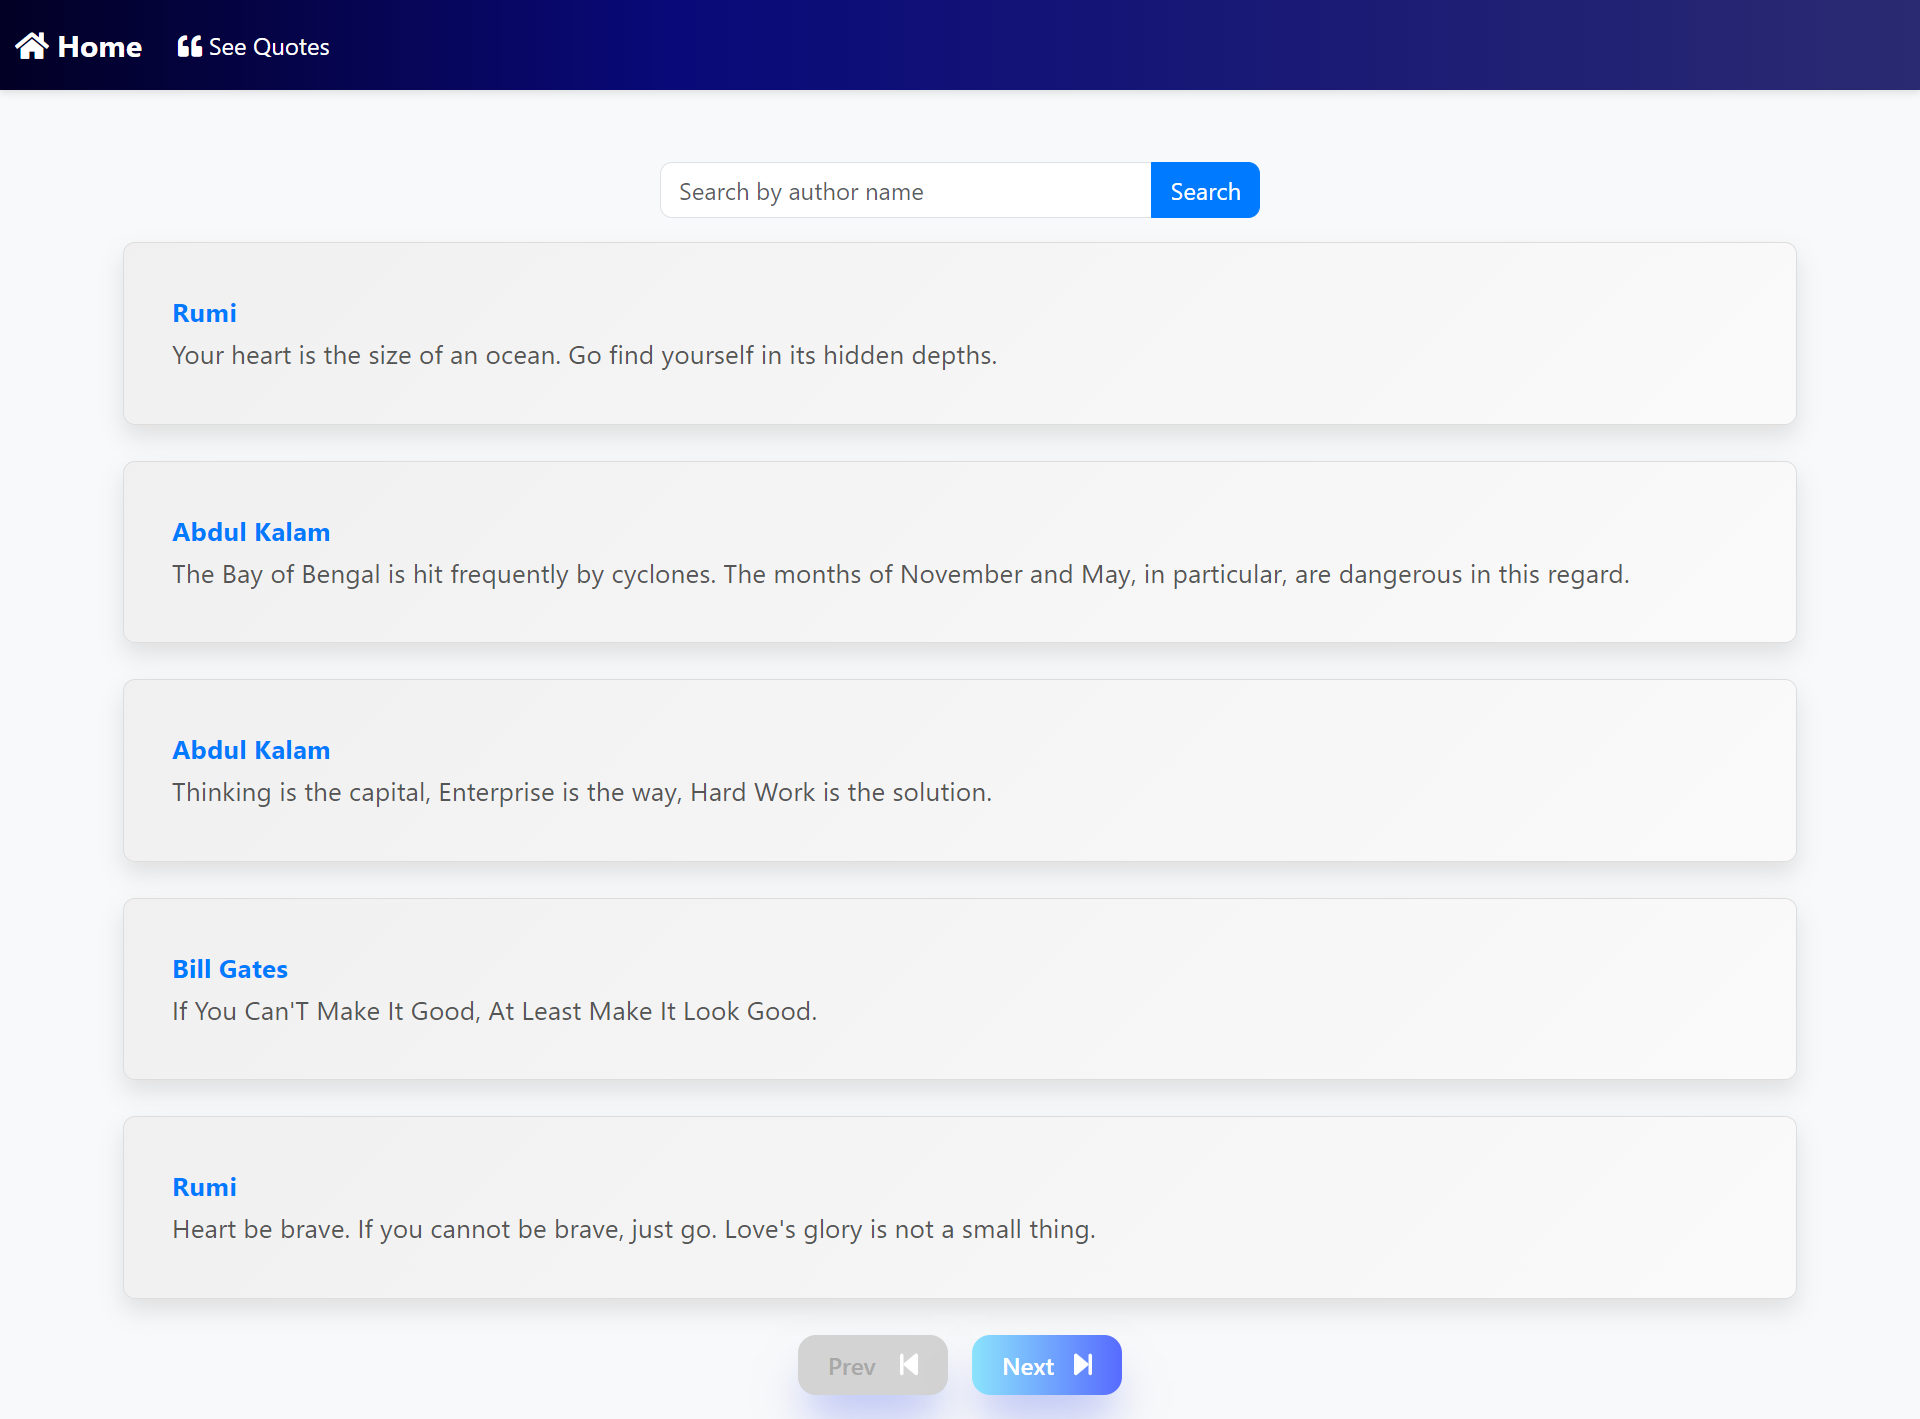
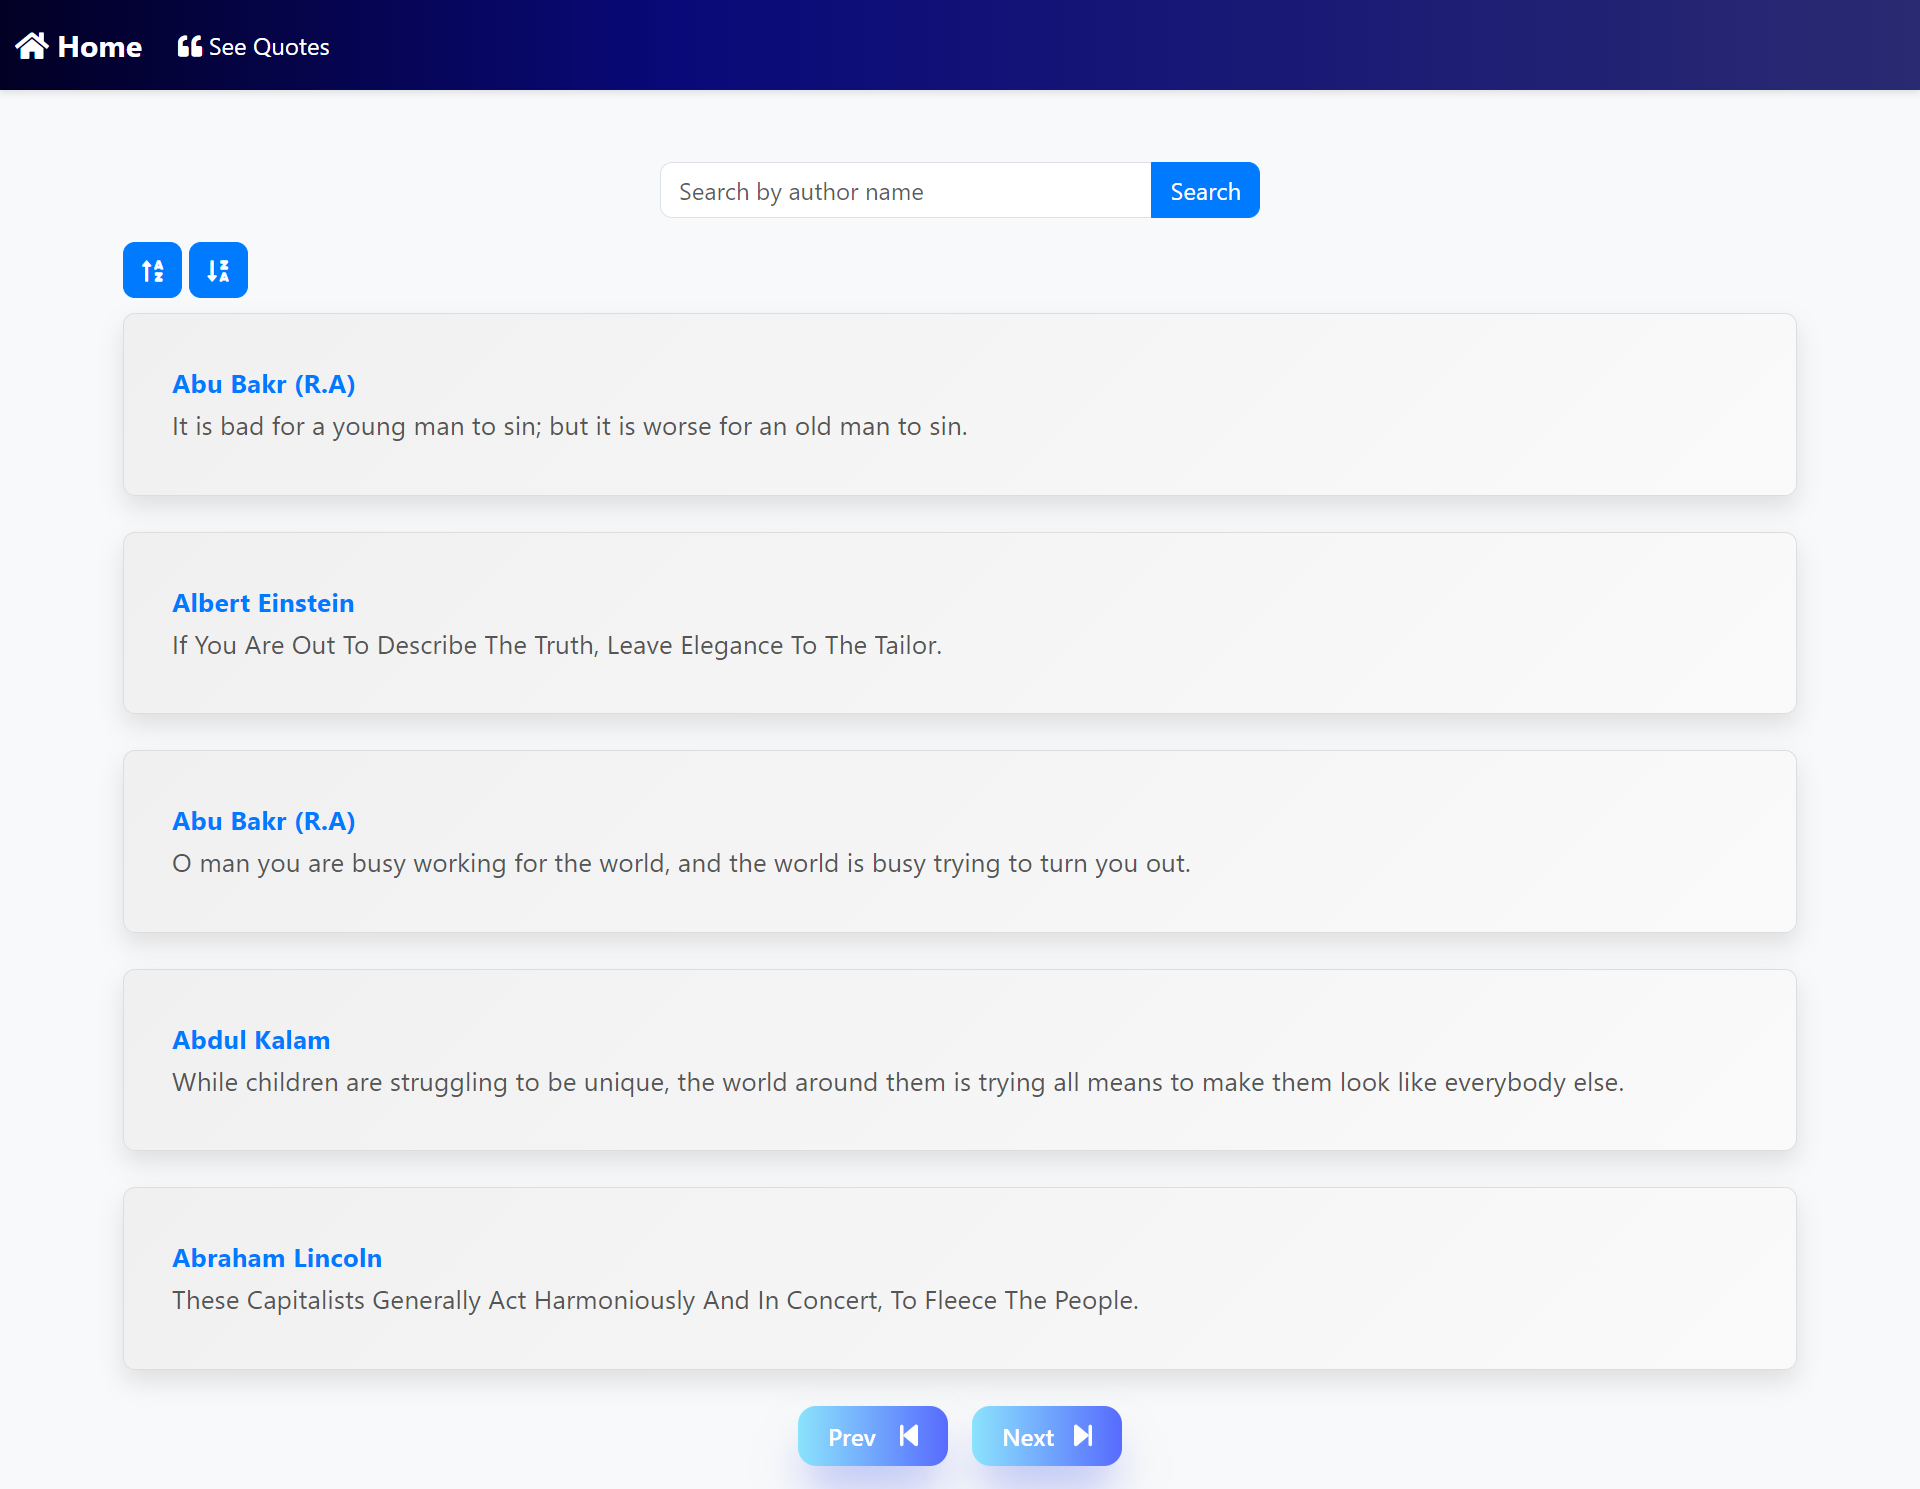
feat: Add sort functionality to quote page

diff --git a/June-19/Assignment/static/js/script.js b/June-19/Assignment/static/js/script.js
@@ -33,12 +33,6 @@ async function fetchAllQuotes() {
   }
 }
 
-function getCurrentPageQuotes() {
-  const startIndex = (currentPage - 1) * quotesPerPage;
-  const endIndex = startIndex + quotesPerPage;
-  return allQuotes.slice(startIndex, endIndex);
-}
-
 function displayQuotes(quotes) {
   const container = document.getElementById("quotes-container");
   container.innerHTML = "";
@@ -52,12 +46,22 @@ function displayQuotes(quotes) {
     container.appendChild(quoteCard);
   });
 
+  updatePaginationButtons();
+}
+
+function updatePaginationButtons() {
   document
     .getElementById("prev-btn")
     .classList.toggle("disabled-btn", currentPage === 1);
   document
     .getElementById("next-btn")
     .classList.toggle("disabled-btn", currentPage === totalPages);
+}
+
+function getCurrentPageQuotes() {
+  const startIndex = (currentPage - 1) * quotesPerPage;
+  const endIndex = startIndex + quotesPerPage;
+  return allQuotes.slice(startIndex, endIndex);
 }
 
 function nextPage() {
@@ -88,6 +92,24 @@ function searchByAuthor() {
   );
   currentPage = 1;
   displayQuotes(filteredQuotes);
+}
+
+function sortQuotesByAuthor(ascending = true) {
+  allQuotes.sort((a, b) => {
+    const authorA = a.author.toLowerCase();
+    const authorB = b.author.toLowerCase();
+    if (ascending) {
+      return authorA.localeCompare(authorB);
+    } else {
+      return authorB.localeCompare(authorA);
+    }
+  });
+}
+
+function sortAndDisplay(ascending) {
+  sortQuotesByAuthor(ascending);
+  currentPage = 1;
+  displayQuotes(getCurrentPageQuotes());
 }
 
 fetchAllQuotes();

diff --git a/June-19/Assignment/templates/quote.html b/June-19/Assignment/templates/quote.html
@@ -60,6 +60,22 @@
           Search
         </button>
       </div>
+
+      <div class="sort">
+        <button
+          class="btn btn-outline-secondary"
+          onclick="sortAndDisplay(true)"
+        >
+          <i class="fas fa-sort-alpha-up"></i>
+        </button>
+        <button
+          class="btn btn-outline-secondary"
+          onclick="sortAndDisplay(false)"
+        >
+          <i class="fas fa-sort-alpha-down-alt"></i>
+        </button>
+      </div>
+
       <div id="quotes-container"></div>
       <div class="navigation">
         <button class="Btn" id="prev-btn" onclick="prevPage()">

diff --git a/June-19/Assignment/static/css/style.css b/June-19/Assignment/static/css/style.css
@@ -214,3 +214,7 @@ body {
 .btn:focus {
     box-shadow: 0 0 0 0.25rem rgba(0, 123, 255, 0.5);
 }
+
+.sort {
+    margin-bottom: 10px;
+}
